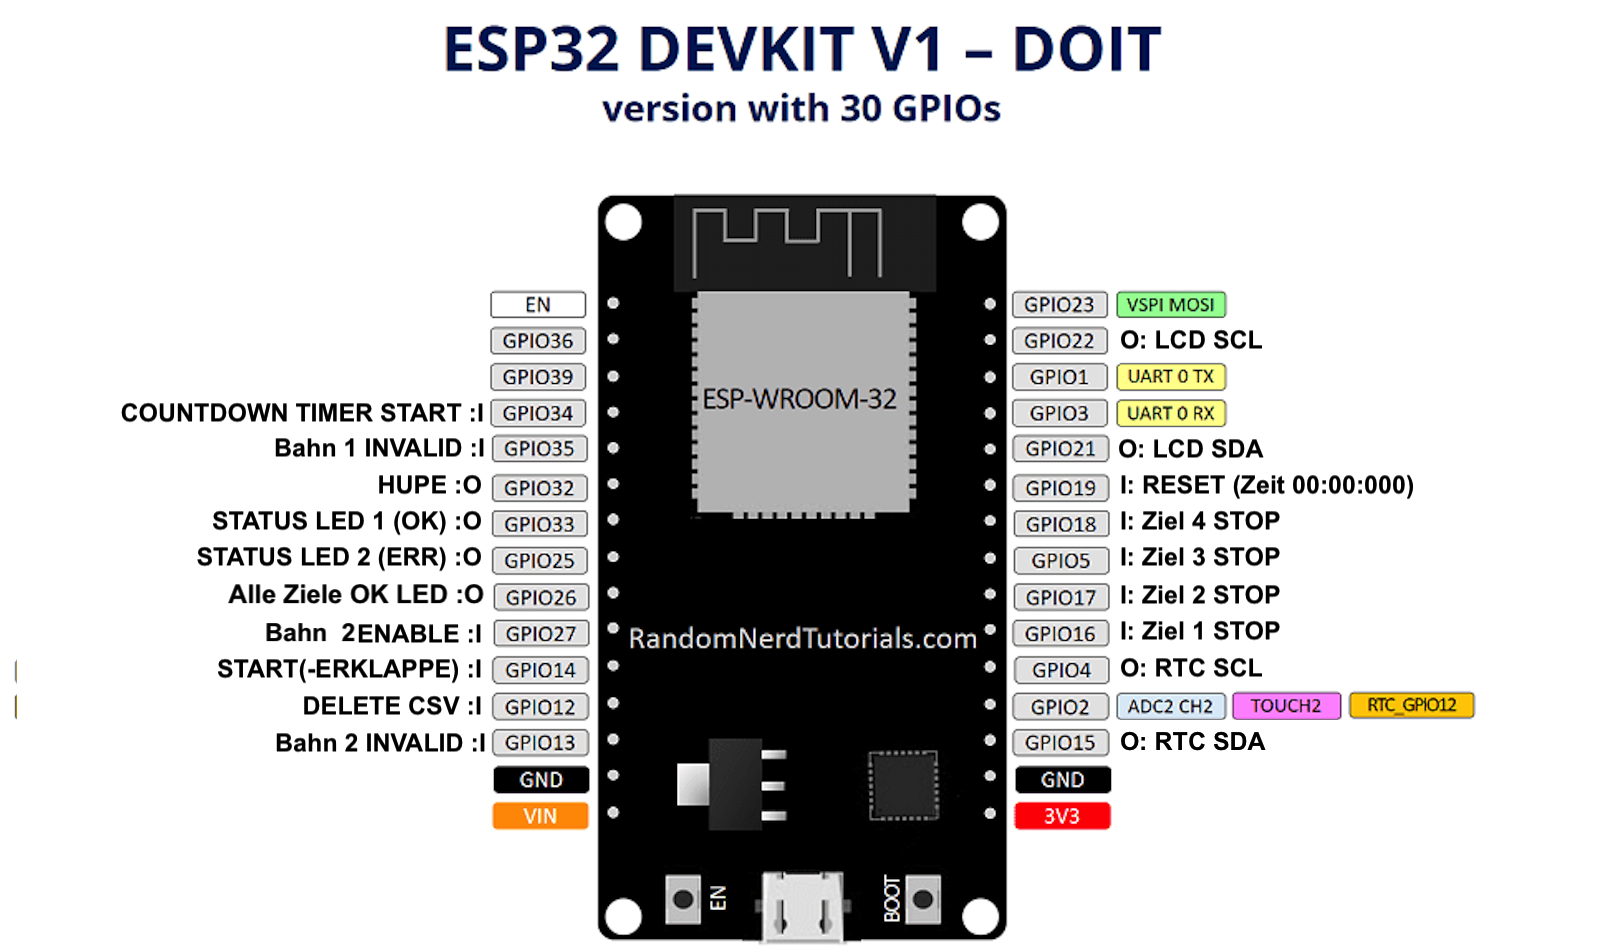
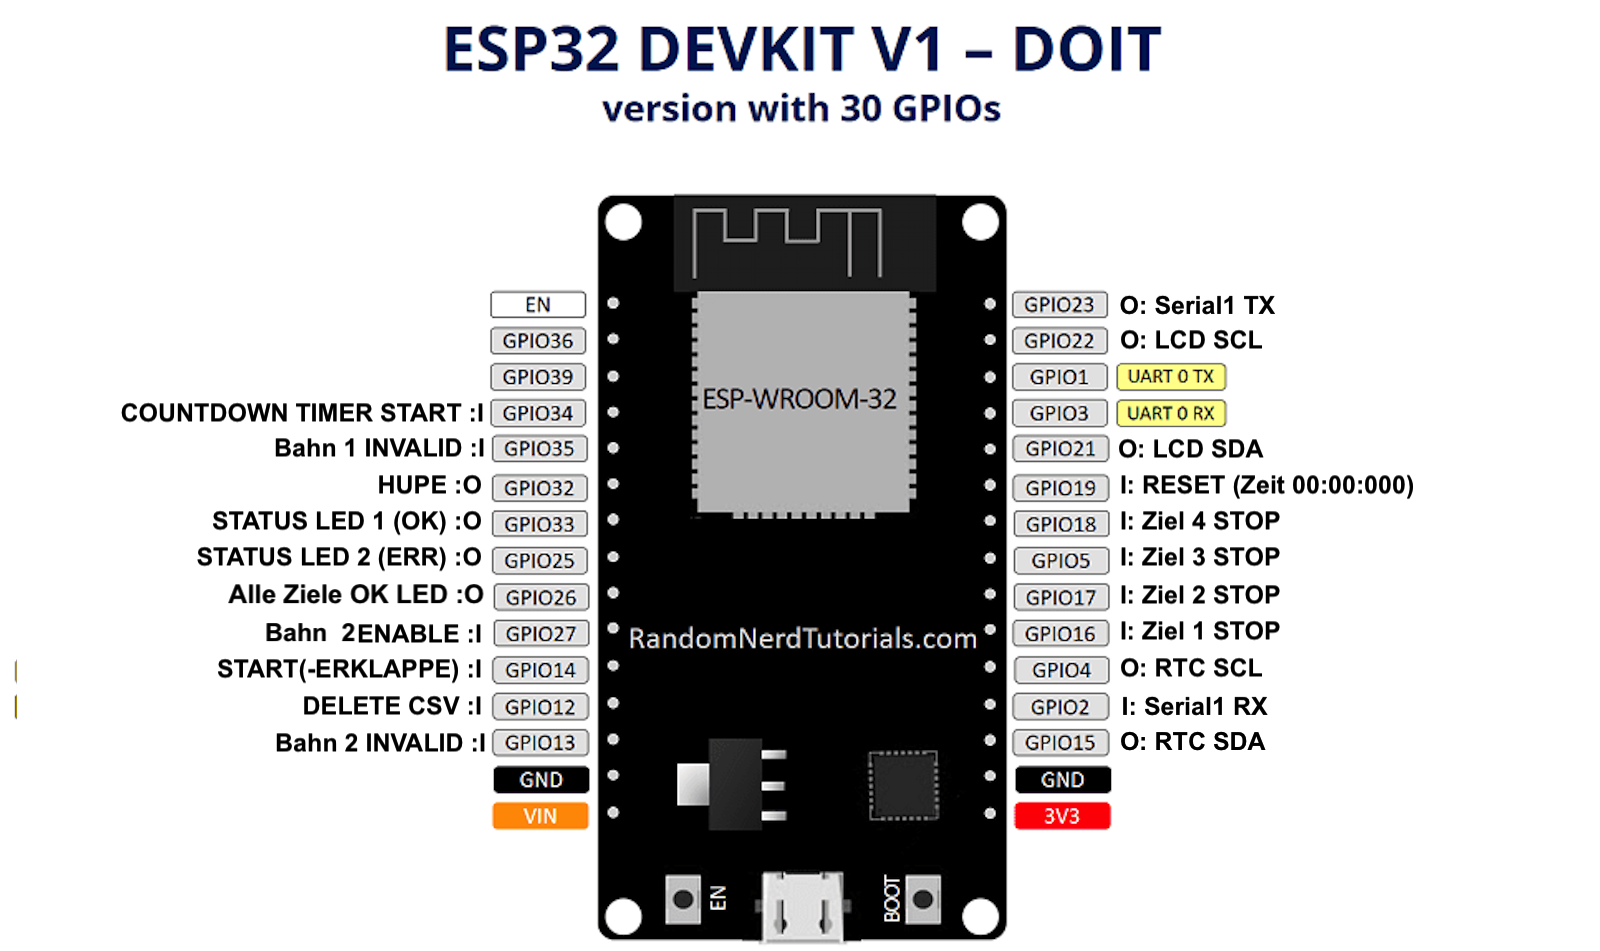
added serial control for led panel

Changed region(s): [[0.6875, 0.7014, 0.9375, 0.7624], [0.6875, 0.3049, 0.8125, 0.3354]]

diff --git a/LEDPanelControl.h b/LEDPanelControl.h
@@ -1,0 +1,53 @@
+//
+// 2018-11-22 jp112sdl Creative Commons - http://creativecommons.org/licenses/by-nc-sa/3.0/de/
+//
+
+#ifndef __LEDPANELCONTROL_H_
+#define __LEDPANELCONTROL_H_
+
+bool receiveDataFromLEDPanel(char expected) {
+  while (Serial1.available() > 0) {
+    char data = Serial.read();
+    if (data == expected) {
+      return true;
+    }
+  }
+  return false;
+}
+
+void sendUdp(String cmd, uint8_t cnt) {
+  Serial.println("sendUdp: " + cmd);
+  for (uint8_t i = 0; i < cnt; i++) {
+    UDPClient.UDP.beginPacket(LEDPanel_IP, UDPPORT);
+    UDPClient.UDP.print(cmd.c_str());
+    UDPClient.UDP.endPacket();
+    delay(10);
+  }
+}
+
+void sendExtSerial(String cmd, uint8_t cnt) {
+  Serial.println("sendExtSerial: " + cmd);
+  for (uint8_t i = 0; i < cnt; i++) {
+    Serial1.println(cmd);
+    delay(100);
+    if (receiveDataFromLEDPanel(0x01)) break;
+  }
+}
+
+void sendDataToLEDPanel(String cmd, uint8_t cnt) {
+#ifdef USE_LEDPANEL_SERIAL
+  sendExtSerial(cmd, cnt);
+#else
+  sendUdp(cmd, cnt);
+#endif
+}
+
+void sendDataToLEDPanel(String cmd) {
+#ifdef USE_LEDPANEL_SERIAL
+  sendExtSerial(cmd, EXTSERIALSENDCOUNT);
+#else
+  sendUdp(cmd, UDPSENDCOUNT);
+#endif
+}
+
+#endif

diff --git a/Web.h b/Web.h
@@ -53,11 +53,11 @@ void setBrightnessHtml(AsyncWebServerRequest *request) {
 
   if (request->hasParam("btnBrightnessUp")) {
     AsyncWebParameter* p = request->getParam("btnBrightnessUp");
-    if (p->value() == "1") sendUdp("brightnessUp", 1);
+    if (p->value() == "1") sendDataToLEDPanel("brightnessUp", 1);
   }
   if (request->hasParam("btnBrightnessDown")) {
     AsyncWebParameter* p = request->getParam("btnBrightnessDown");
-    if (p->value() == "1") sendUdp("brightnessDown", 1);
+    if (p->value() == "1") sendDataToLEDPanel("brightnessDown", 1);
   }
   AsyncWebServerResponse *response = request->beginResponse(200);
   response->addHeader("Content-Length", String(page.length()));
@@ -142,7 +142,7 @@ void defaultHtml(AsyncWebServerRequest *request) {
       if (p->value() == "1") {
         if (activeRunningCount == 0) {
           showResultOnLEDPanel = false;
-          sendUdp("timerstart" + String(COUNTDOWNTIMER_SECONDS));
+          sendDataToLEDPanel("timerstart" + String(COUNTDOWNTIMER_SECONDS));
         }
       }
     }
